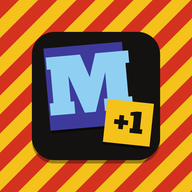
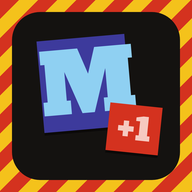
Nouvelle icône : bordure rayée fine, tuile « +1 » rouge
Fond noir élargi (moins de rayures visibles), « M » agrandi, tuile « +1 »
rouge à lettres roses. Version du cache hors ligne relevée pour que les
appareils récupèrent les nouvelles icônes.

Claude-Session: https://claude.ai/code/session_01SJPh5mHLKP6ge1hmvW5owf

diff --git a/sw.js b/sw.js
@@ -1,7 +1,7 @@
 // Fait fonctionner l'appli hors ligne une fois installée.
 // Stratégie : on répond tout de suite avec la version en mémoire, et on va chercher
 // une éventuelle mise à jour en arrière-plan pour le prochain lancement.
-const CACHE = "miams-v1";
+const CACHE = "miams-v2";
 const FILES = ["./", "index.html", "manifest.webmanifest", "icons/icon-192.png", "icons/icon-512.png", "icons/icon-180.png", "icons/icon-32.png"];
 
 self.addEventListener("install", (event) => {
